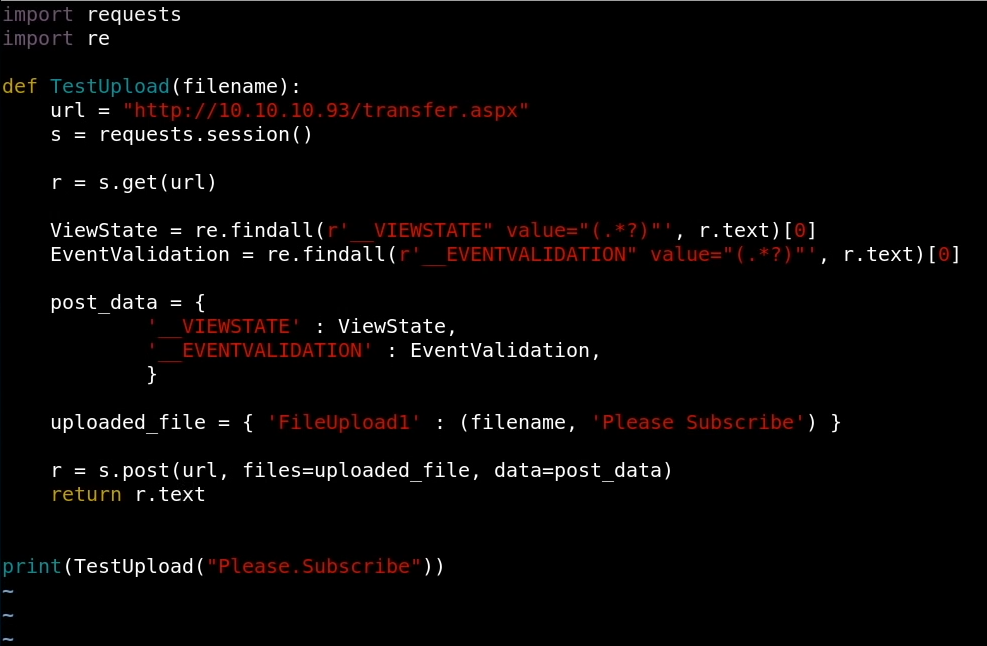
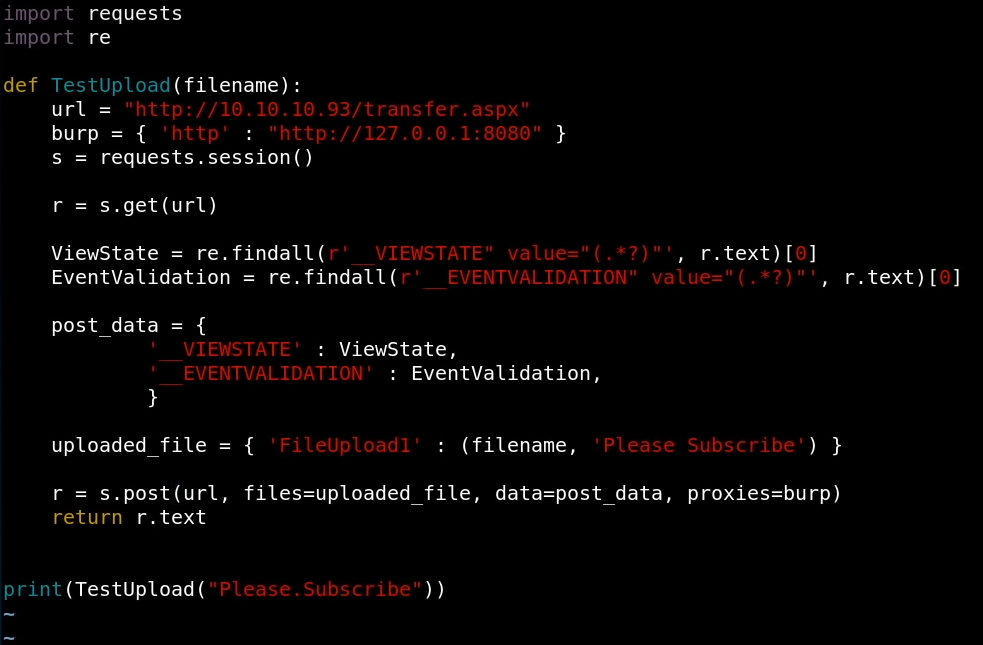
GitBook: [master] one page and 4 assets modified

diff --git a/notes/python-notes/python-automation-2.md b/notes/python-notes/python-automation-2.md
@@ -19,7 +19,9 @@ TestRequest("Please Subscribe")
 
 ## Example 1 : Serialized POST request automation
 
-![request](../../.gitbook/assets/image%20%28119%29.png)
+![request](../../.gitbook/assets/image%20%28120%29.png)
 
-![Python Automation](../../.gitbook/assets/image%20%28118%29.png)
+![python automation](../../.gitbook/assets/image%20%28121%29.png)
+
+Here burp was used to validate if the request is generate properly.
 
